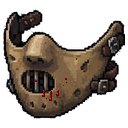
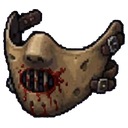
Three mythics wear the designer's redraws
Tigers Sunday Red (a black fist-pumping golfer silhouette on the chest),
the Gauntlets of Dungeon Mastering (a 20 on every die) and Hannibals Mask
(blood round the grille) are cut from the designer's new panels, replacing
their pieces of the old sheets and the pixel touches drawn over them
earlier today (TOUCHES removed). The mask, a JPEG photo, is cut tight so
its outline holds; the gauntlets skip the enclosed-pocket pass so their
dark steel is never taken for a gap.

Claude-Session: https://claude.ai/code/session_012Y7A5C94YdKvjr5EFVon5m

diff --git a/tools/cut_mythic_art.py b/tools/cut_mythic_art.py
@@ -57,13 +57,11 @@ _BR = (569, 570, 963, 964)
 PIECES = {
     "helms": [
         ("the_headbandz", (36, 36, 490, 280)),
-        ("hannibals_mask", (36, 294, 490, 490)),
         ("mane_of_narashimha", (36, 532, 490, 988)),
         ("scholars_cap", (532, 640, 988, 988)),
     ],
     "chests": [
         ("adimantium", _TL),
-        ("tigers_sunday_red", _TR),
         ("divine_resistance", _BL),
         ("hide_of_garmr", _BR),
     ],
@@ -74,7 +72,6 @@ PIECES = {
         ("poseidons_trident", _BR),
     ],
     "gauntlets": [
-        ("gauntlets_of_dungeon_mastering", _TL),
         ("hallowed_trunk", _TR),
         ("cuffs_of_current", _BL),
         ("concealed_carry", _BR),
@@ -108,6 +105,20 @@ PIECES = {
         ("steve_rodgers_bastion", _TR),
         ("presence_of_mind", _BL),
         ("crooked_dueling_shield", _BR),
+    ],
+    # The designer's redraws on their own panels (2026-10-31), replacing
+    # their pieces of the sheets above: the polo with a black fist-pumping
+    # golfer silhouette on its chest, the gauntlets with a 20 on every die,
+    # the mask with blood round its grille. Cropped inside each panel's
+    # purple border.
+    "tigers_sunday_red": [
+        ("tigers_sunday_red", (30, 30, 1259, 1191)),
+    ],
+    "gauntlets_of_dungeon_mastering": [
+        ("gauntlets_of_dungeon_mastering", (30, 30, 1249, 1200)),
+    ],
+    "hannibals_mask": [
+        ("hannibals_mask", (30, 30, 1040, 978)),
     ],
     # The Bladed Doughnut on its own panel (2026-10-31): a frosted doughnut
     # ringed with steel spikes. Cropped inside the panel's purple bevel.
@@ -194,10 +205,16 @@ def _components(mask: np.ndarray):
 
 # Panels whose plain ground is less even than the boxed sheets': the
 # doughnut's has a soft dark shadow along its foot (sheet -> (bg, edge) tol).
-TOLS = {"bladed_doughnut": (16, 30)}
+TOLS = {"bladed_doughnut": (16, 30), "tigers_sunday_red": (16, 30),
+        "gauntlets_of_dungeon_mastering": (16, 30), "hannibals_mask": (10, 20)}
 
 
-def cut(sheet: Image.Image, box, fix=None, tols=None) -> Image.Image:
+# Pieces with no see-through gaps, whose dark shading must never be taken
+# for an enclosed pocket of panel (the gauntlets' steel).
+NO_HOLES = {"gauntlets_of_dungeon_mastering"}
+
+
+def cut(sheet: Image.Image, box, fix=None, tols=None, no_holes=False) -> Image.Image:
     bg_tol, edge_tol = tols or (BG_TOL, EDGE_TOL)
     rgb = np.asarray(sheet.crop(box).convert("RGB")).astype(int)
     h, w, _ = rgb.shape
@@ -211,7 +228,7 @@ def cut(sheet: Image.Image, box, fix=None, tols=None) -> Image.Image:
     panel = _flood(near, edge)
     # Enclosed pockets of plain panel (ring middles, arch gaps).
     for comp in _components((dist <= HOLE_TOL) & ~panel):
-        if len(comp) >= HOLE_MIN:
+        if len(comp) >= HOLE_MIN and not no_holes:
             panel |= _flood(near, comp)
 
     alpha = np.where(panel, 0.0, 1.0)
@@ -250,134 +267,13 @@ def cut(sheet: Image.Image, box, fix=None, tols=None) -> Image.Image:
     return out
 
 
-# ---------------------------------------------------------------------------
-# Touches the designer asked for (2026-10-31), drawn as pixel art on the
-# finished 128px icon so they read at the size the game shows it. Positions
-# are given on the panel crop and mapped onto the canvas.
-# ---------------------------------------------------------------------------
-
-_DIGITS = {  # 3x5 pixel digits
-    "2": ("111", "001", "111", "100", "111"),
-    "0": ("111", "101", "101", "101", "111"),
-}
-INK = (24, 22, 32, 255)
-
-
-def _write(px, x, y, text, ink=INK, plate=None):
-    """`text` in 3x5 digits with its top-left at (x, y); `plate` lays a
-    1px-padded backing first."""
-    w = len(text) * 4 - 1
-    if plate:
-        for yy in range(y - 1, y + 6):
-            for xx in range(x - 1, x + w + 1):
-                px[xx, yy] = plate
-    for i, ch in enumerate(text):
-        for r, row in enumerate(_DIGITS[ch]):
-            for c, bit in enumerate(row):
-                if bit == "1":
-                    px[x + i * 4 + c, y + r] = ink
-
-
-def _twenty_dice(img, at):
-    """Gauntlets of Dungeon Mastering: every die reads 20 — the two big
-    dice on the backs of the hands (painted with a 20 the shrink blurs
-    away) and the eight knuckle dice (which had none). Dark digits on the
-    silver; the big dice keep their pale face behind them."""
-    px = img.load()
-    big = [(96, 171), (300, 171)]
-    knuckles = [(42, 134), (69, 126), (100, 124), (131, 126),
-                (260, 126), (291, 124), (322, 126), (352, 134)]
-    face = (214, 220, 228, 255)
-    for cx, cy in big:
-        x, y = at(cx, cy)
-        _write(px, x - 3, y - 2, "20", plate=face)
-    # The knuckle dice are only 6..9px across here: their 20 is engraved
-    # straight into the silver (dark digits, no face plate, which read as a
-    # sticker), the outer two nudged inward to stay on their die.
-    for i, (cx, cy) in enumerate(knuckles):
-        x, y = at(cx, cy)
-        nudge = 1 if i == 0 else (-1 if i == len(knuckles) - 1 else 0)
-        _write(px, x - 3 + nudge, y - 2, "20", ink=(30, 32, 44, 255))
-
-
-def _blood_on_mask(img, at):
-    """Hannibals Mask: a few small blood drops round the mouth grille —
-    drips running from its lower lip and rounding off at the end, and a few
-    spatters beside it."""
-    px = img.load()
-    dark, mid, hi = (92, 6, 10, 255), (148, 12, 18, 255), (210, 48, 48, 255)
-    # Drips from the grille's lower lip: (x, top y, length). A drip is two
-    # pixels wide where it runs, ending in a round bead a shade darker.
-    for x, y, n in [(43, 90, 5), (50, 91, 8), (57, 90, 4)]:
-        for k in range(n):
-            px[x, y + k] = mid
-            px[x + 1, y + k] = dark
-        px[x, y] = hi
-        for bx, by, c in [(x - 1, y + n, dark), (x, y + n, mid), (x + 1, y + n, dark),
-                          (x - 1, y + n + 1, dark), (x, y + n + 1, dark), (x + 1, y + n + 1, dark),
-                          (x, y + n - 1, hi)]:
-            px[bx, by] = c
-    # Spatters beside the grille: a bead (2x2) and a few specks.
-    for x, y in [(35, 80), (65, 78)]:
-        px[x, y] = mid; px[x + 1, y] = dark; px[x, y + 1] = dark; px[x + 1, y + 1] = dark
-        px[x, y - 1] = hi
-    for x, y, c in [(37, 85, mid), (63, 85, mid), (66, 82, dark), (46, 98, dark), (60, 97, mid)]:
-        px[x, y] = c
-
-
-def _sunday_figurine(img, at):
-    """Tigers Sunday Red: a small figurine on the right chest (the viewer's
-    right, where a polo's logo sits) — a little gold golfer, fist pumped
-    high, club held down in the other hand. Gold so it reads on the red
-    stripes; a tiny emblem, not a portrait."""
-    px = img.load()
-    colors = {
-        "K": (40, 20, 10, 255),     # outline
-        "H": (255, 236, 150, 255),  # gold highlight
-        "Y": (232, 184, 64, 255),   # gold
-        "D": (168, 116, 30, 255),   # gold shadow
-        "S": (196, 200, 210, 255),  # club (steel)
-    }
-    sprite = [
-        "...KKK.....",
-        "..KHYYK....",
-        "..KYYDK....",
-        ".KKYDKK....",
-        "KHK.K......",
-        "KYK.KK.....",
-        ".KYKYYKK...",
-        "..KYYYYDK..",
-        "...KYYDKSK.",
-        "...KYYDK.S.",
-        "...KYDDK.S.",
-        "..KYYKDDK.S",
-        "..KYK.KDK.S",
-        ".KYYK.KDDKS",
-        ".KKKK.KKKK.",
-    ]
-    x0, y0 = 81, 42
-    for y, row in enumerate(sprite):
-        for x, ch in enumerate(row):
-            if ch != ".":
-                px[x0 + x, y0 + y] = colors[ch]
-
-
-TOUCHES = {
-    "gauntlets_of_dungeon_mastering": _twenty_dice,
-    "hannibals_mask": _blood_on_mask,
-    "tigers_sunday_red": _sunday_figurine,
-}
-
-
 def main() -> None:
     for sheet_name, pieces in PIECES.items():
         path = next(SRC % sheet_name + ext for ext in (".jpg", ".webp", ".png")
                     if os.path.exists(SRC % sheet_name + ext))
         sheet = Image.open(path)
         for slug, box in pieces:
-            img = cut(sheet, box, FIXES.get(slug), TOLS.get(sheet_name))
-            if slug in TOUCHES:
-                TOUCHES[slug](img, cut.last_map)
+            img = cut(sheet, box, FIXES.get(slug), TOLS.get(sheet_name), slug in NO_HOLES)
             img.save(OUT % slug)
             bb = img.getbbox()
             print("%-32s %s -> %dx%d on %d" % (slug, sheet_name, bb[2] - bb[0], bb[3] - bb[1], CANVAS))

diff --git a/docs/ASSET_PACKS.md b/docs/ASSET_PACKS.md
@@ -228,7 +228,7 @@ script cuts each one out of its background into the generated-monsters set.
 | `ice_spike_0..4.png` (2026-10-23; five 128×128 transparent frames on one canvas, stored in playing order — the designer's frames 3, 4, 7, 9, 11: a thin shard, the spike rising, the full stalagmite, cracking, shattered) | `generated/fx/ice_spike_strip.png`, 5 frames of 128×128 — Surrounding Ice: a spike erupts on every tile the 2.5-tile radius reaches (none on the caster's tile, none under an enemy the miss roll spared), rippling outward, each playing all five frames; drawn ×0.5 (full size a spike stands ~3 tiles and the field buries the caster) (`scripts/effects/surrounding_ice_fx.gd`, from main's Surrounding Ice resolution; replaced the old procedural icicles). Cryonics wears the same spike widened ×2.6 at ×0.7 height into a see-through (45%) block of ice around the iced character: it rises as the card lands, stands for the 15 tempo and cracks and shatters on the thaw (`scripts/effects/cryonics_ice_fx.gd`) | `tools/cut_ice_spike.py` — packs the frames; every frame stands on one base point (62, 98) |
 | `lightning_sheet.png` (2026-10-23; a 484×407 screenshot of a sheet on flat grey: blue horizontal arcs, blue crackles, a gold bolt striking down, its gold ground burst) | `generated/fx/shock_arc_strip.png` (6), `shock_crackle_strip.png` (5), `thunder_strike_strip.png` (6), `thunder_impact_strip.png` (5) — blue for Shock, gold for God of Thunder (designer): a Shock tick crackles over the shocked enemy (or shocked player) and arcs, laid flat and stretched, to whoever the damage jumps to; God of Thunder pulls each drained enemy's Shock into the target as blue arcs, then the gold bolt strikes down on it and bursts across the ground (`scripts/effects/lightning_fx.gd`; replaced the old procedural bolt) | `tools/cut_lightning.py` — un-blends the grey into alpha (the glow is kept soft), cuts frames at measured columns, packs a strip per band aligned by how each is pinned (arcs left-middle, crackles centre, bolt and burst bottom-centre). The first ground-burst frame is clipped by the sheet's edge |
 | `mythic_helms.jpg`, `mythic_chests.jpg`, `mythic_weapons.jpg`, `mythic_gauntlets.jpg`, `mythic_boots.jpg`, `mythic_wands.webp`, `mythic_belts.webp`, `mythic_rings.webp`, `mythic_shields.webp`, `mythic_bows.webp` (2026-10-23; 1024×1024 sheets of framed dark panels, one mythic to a panel: Headbandz, Hannibal's Mask, Mane of Narashimha, Scholars Cap; Adimantium, Tiger's Sunday Red, Divine Resistance, Hide of Garmr; Sabre Tooth, Sword of Theseus, Umbral Eclipse, Poseidon's Trident; Gauntlets of Dungeon Mastering, Hallowed Trunk, Cuffs of Current, Concealed Carry; Boots of the Balancer, Hermes Boots, Jordan 1s, Guardian Greaves; Wand of the Phoenix Feather, Circe's Wand, Reaper Scythe, Feral Evocation; Belt of Scrolls, Megingjord, Orion's Belt, Girdle of Aphrodite; The Precious, Ring of Nibelung, Draupnir, Ring of Thomas the Train Tracks; Delfin's Round Shield, Steve Rodgers' Bastion, Presence of Mind, Crooked Dueling Shield; Bow of Arash, Belthronding, Bow of Budding Blasts — every mythic but the Bladed Doughnut) | `assets/items/mythic/<slug>.png`, 128×128 transparent, mipmapped — each item's own picture (`ItemData.appearance_icon`): its inventory cell, its equipment slot and its detail panel, stored or equipped, shrunk smoothly to each box; a mythic weapon is held at the same 0.6-tile length the 32-px icons were. Replaced the generated 32-px icons for these items (only the Bladed Doughnut keeps its own, from `tools/generate_mythic_icons.py`) | `tools/cut_mythic_art.py` — the flat panel colour is flood-filled away from each crop's edge (tight: the art's dark outlines sit only ~10 levels off it), enclosed panel pockets (ring middles) cut too, the rim faded, JPEG specks dropped, fitted to 122 px on the 128 canvas with premultiplied Lanczos. The Bow of Arash's arrow is flipped (designer): its head and fletching trade ends, each turned half a turn about the arrow's measured midpoint, after the panel is cut away |
-| (touches, 2026-10-31) | `tools/cut_mythic_art.py` `TOUCHES`, drawn as pixel art on the finished 128px icons at the designer's request: every die on the **Gauntlets of Dungeon Mastering** reads 20 (the two big dice's painted 20 lost in the shrink, redrawn crisp on a pale face; the eight knuckle dice engraved), a few blood drips and spatters round **Hannibals Mask**'s mouth grille, and a small gold fist-pumping golfer figurine on **Tigers Sunday Red**'s right chest (no source art has these, so they are drawn in the icons' own pixel style) | — |
+| `mythic_tigers_sunday_red.webp`, `mythic_gauntlets_of_dungeon_mastering.webp`, `mythic_hannibals_mask.jpg` (2026-10-31; the designer's redraws, each on its own panel: the red polo with a black fist-pumping golfer silhouette on its chest, the gauntlets with a 20 on every die, the mask with blood round its grille) | `assets/items/mythic/{tigers_sunday_red,gauntlets_of_dungeon_mastering,hannibals_mask}.png`, 128×128 — they replace those three pieces of the chests / gauntlets / helms sheets (which keep the other items) and the pixel touches drawn over them earlier the same day. At 128 px the dice's 20s are a few pixels tall | `tools/cut_mythic_art.py` (their own sheets; `TOLS` per panel — the mask is a JPEG photo, held tight so its outline stays; `NO_HOLES` keeps the gauntlets' dark steel from being cut as gaps) |
 | `mythic_bladed_doughnut.png` (2026-10-31; the Bladed Doughnut on its own dark panel: a pink-frosted doughnut with sprinkles, its rim set with steel spikes — the last mythic to be painted) | `assets/items/mythic/bladed_doughnut.png`, 128×128 like the other mythics — its inventory cell, equipment slot and detail panel, and the doughnut Olorin holds up in the mythic lesson (`Olorin.DoughnutIcon`, once a long john drawn from boxes). Replaced the generated 32-px sprite; `tools/generate_mythic_icons.py` draws no mythic any more | `tools/cut_mythic_art.py` (the `bladed_doughnut` sheet; a looser panel tolerance, `TOLS`, for the soft shadow along the panel's foot) |
 | `mythic_present_board.webp` (2026-10-31; a green gift box tied with a gold-edged purple ribbon and bow, on black) | `assets/textures/props/mythic_present.png`, 192 px tall, mipmapped — the present a looted mythic arrives in (`MythicReveal`, 0.75 tiles tall, standing on its tile); replaced the present built from coloured boxes. The mythic rising out of it is sized by its art (0.9 tiles), no longer at the old 32-px icons' 0.028 a pixel that blew the painted 128-px art up fourfold | `tools/cut_mythic_present.py` — the black ground flood-filled from the edge |
 | `frankenstein_board.jpg`, `giant_beaver_board.jpg`, `wyvern_board.webp`, `ring_wraith_board.jpg` (2026-10-23; four-direction pose boards, one pose a direction: Frankensteins Monster on a stone floor — both its side views face right; the Giant Beaver up on its hind legs and on all fours; the Wyvern; the mounted Ring Wraith front, back and right side — the last three on painted-in checkerboards) | `generated/sheets/<kind>/Idle.png` + `Walk.png`, Craftpix layout (rows front, back, left, right; a missing side is the mirror): `frankenstein` (the ITS ALIVE!!!!! summon, ~1.4 tiles), `giant_beaver` (~1.05 standing; it walks on all fours), `wyvern` (~1.75), `ring_wraith` (~1.8, mounted — it now casts a blob shadow), all ×1.0. Replaced Zombie2, a tinted MonsterKit battler (×2) and Ghost3. With one walk pose a direction, the figure steps 2 texels up and back down 3.5 times a second while it moves (`SpriteEnemyFigure.STEP_LIFT`) | `tools/cut_pose_boards.py` — checkerboards: the neutral checker colours flood-filled away from each pose's box (the art's dark outline stops the fill), enclosed pockets ≥100 px cut, labels and specks dropped; stone floor: the outline thickened 3 px to close its pinholes and the green skin walled off before the fill, the floor-coloured fringe peeled back after. One shrink factor a creature (the front Idle sets the height), box-filtered with on/off alpha at 32 texels a tile |
